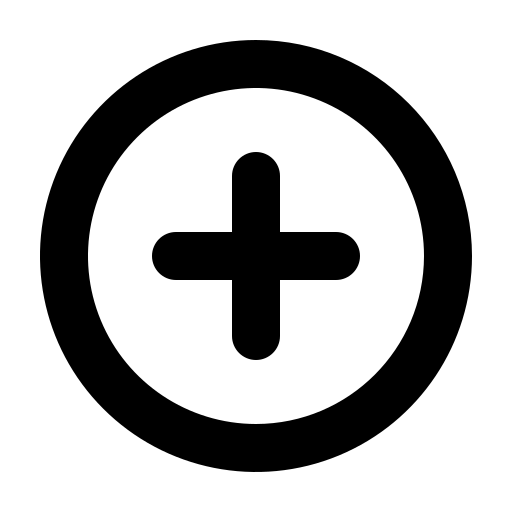
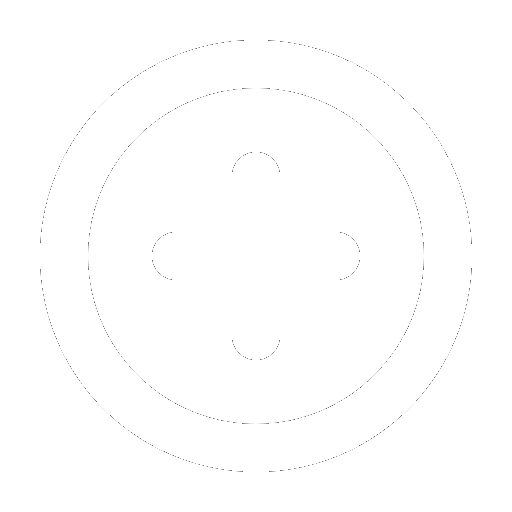
그룹 채팅방 아이콘 및 js 작성

Changed region(s): [[0.0625, 0.0625, 0.9375, 0.9375], [0.2812, 0.2812, 0.7188, 0.7188]]

diff --git a/src/main/resources/static/css/style.css b/src/main/resources/static/css/style.css
@@ -5,12 +5,14 @@ html, body {margin: 0;padding: 0;height: 100%;width: 100%;}
 nav.sidebar {width: 250px;height: 100%;background-color: #202123;color: #fff;display: flex;flex-direction: column;transition: width 0.3s;padding: 10px;}
 nav.sidebar.collapsed {width: 60px;}
 .menu-toggle {cursor: pointer;font-size: 24px;padding: 10px;}
-.menu-item {padding: 15px 10px;cursor: pointer;border-radius: 5px;}
+.menu-item {padding: 15px 10px;cursor: pointer;border-radius: 5px;display: flex;justify-content: space-between;align-items: center;}
 .menu-item:hover {background-color: #343541;}
 .user-section {margin-top: auto;display: flex;flex-direction: column;gap: 10px;}
 .user-info {display: flex;align-items: center;gap: 10px;}
 .user-info img {width: 30px;height: 30px;border-radius: 50%;}
 .login-buttons a {display: block;color: #fff;text-decoration: none;padding: 5px 0;}
+.group-btn {display: inline-block;width: 30px;height: 30px;cursor: pointer;}
+.group-btn img {width: 30px;height: 30px;object-fit: contain;}
 
 /* 기본적으로 아이콘 숨김 */
 .menu-item .icon, .login-buttons .icon {display: none;}

diff --git a/src/main/resources/templates/fragments/sideNav.html b/src/main/resources/templates/fragments/sideNav.html
@@ -17,6 +17,10 @@
             <div class="menu-item">
                 <span class="icon">💬</span>
                 <span class="label">채팅</span>
+
+                <span class="label group-btn">
+                    <img src="/images/group.png" onclick="groupPopup()"/>
+                </span>
             </div>
         </div>
 

diff --git a/src/main/resources/templates/fragments/scripts.html b/src/main/resources/templates/fragments/scripts.html
@@ -14,6 +14,7 @@
     <!-- 화면 js -->
     <script type="text/javascript" th:src="@{/js/chatting.js}"></script>
     <script type="text/javascript" th:src="@{/js/main.js}"></script>
+    <script type="text/javascript" th:src="@{/js/groupChat.js}"></script>
 
 
     <!-- sweetAlert2 -->

diff --git a/src/main/resources/static/js/groupChat.js b/src/main/resources/static/js/groupChat.js
@@ -1,0 +1,3 @@
+function groupPopup(){
+  console.log("그룹")
+}
